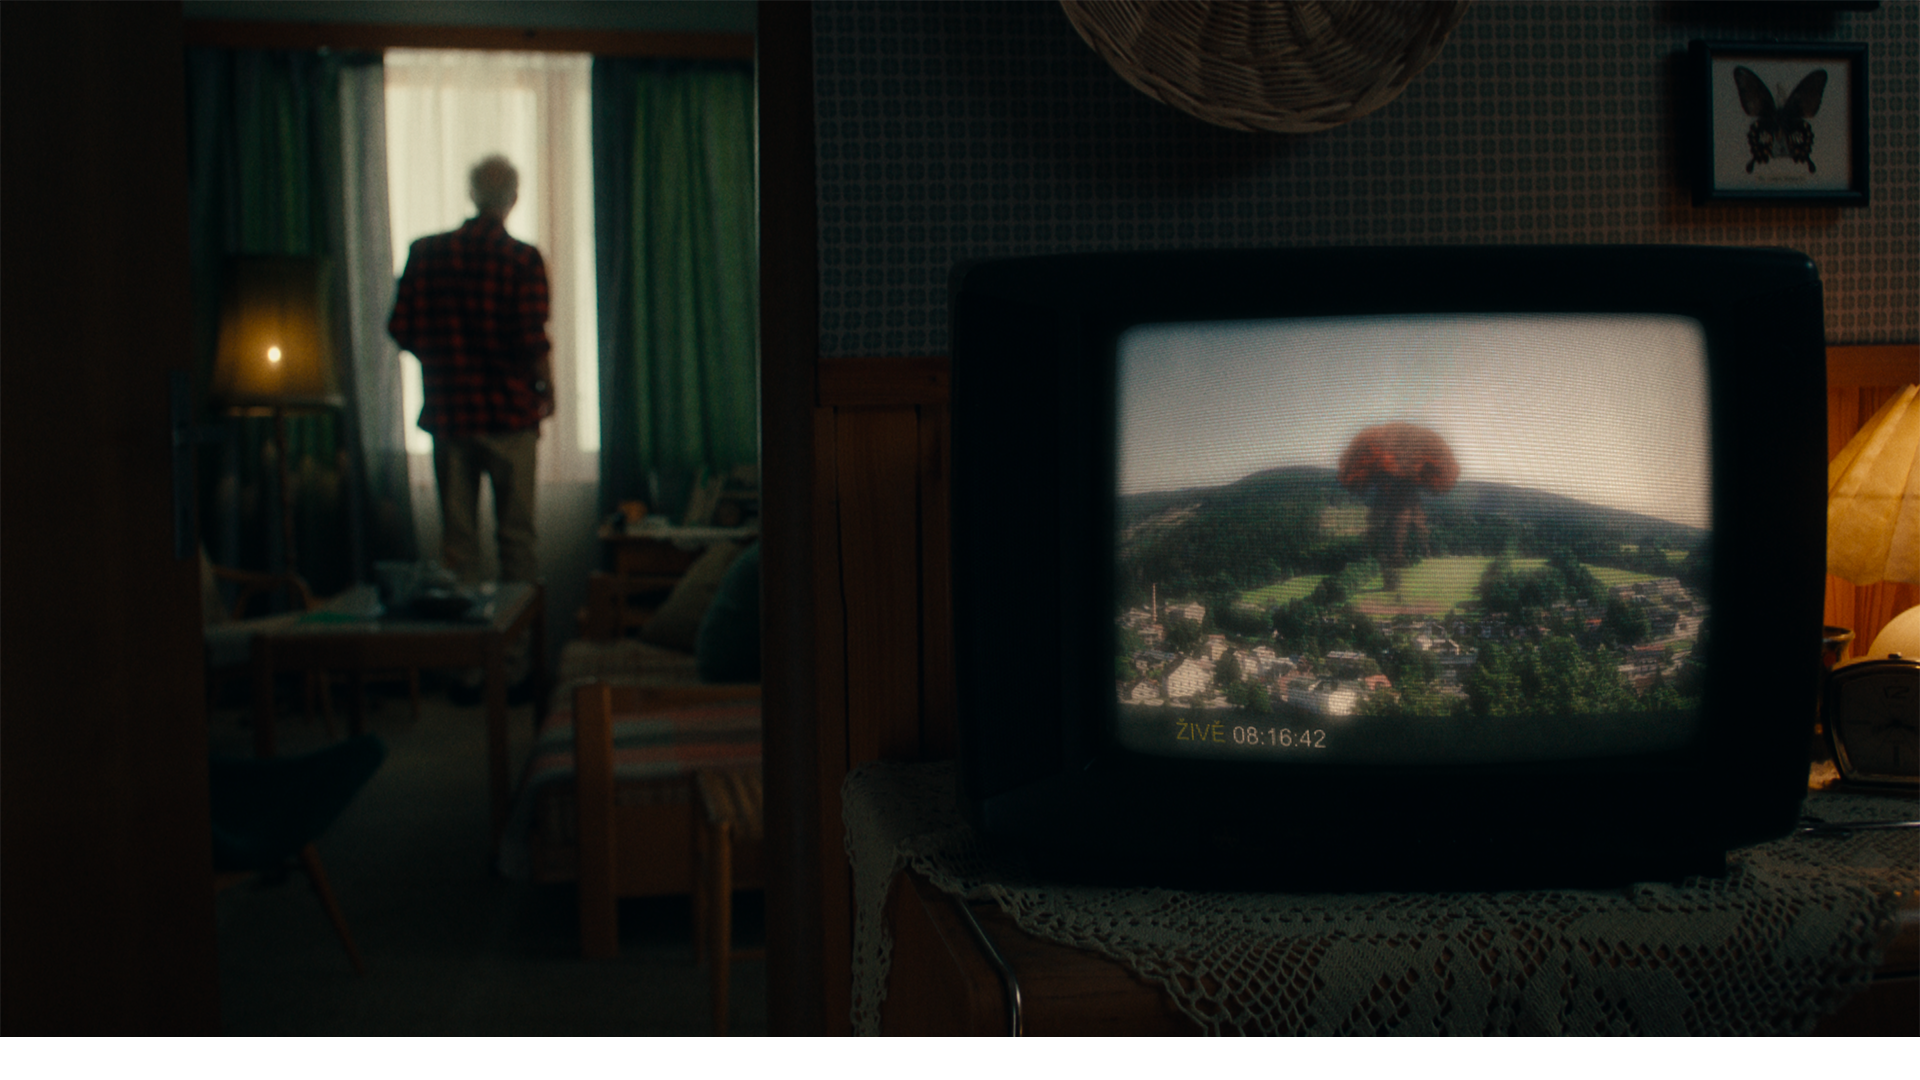
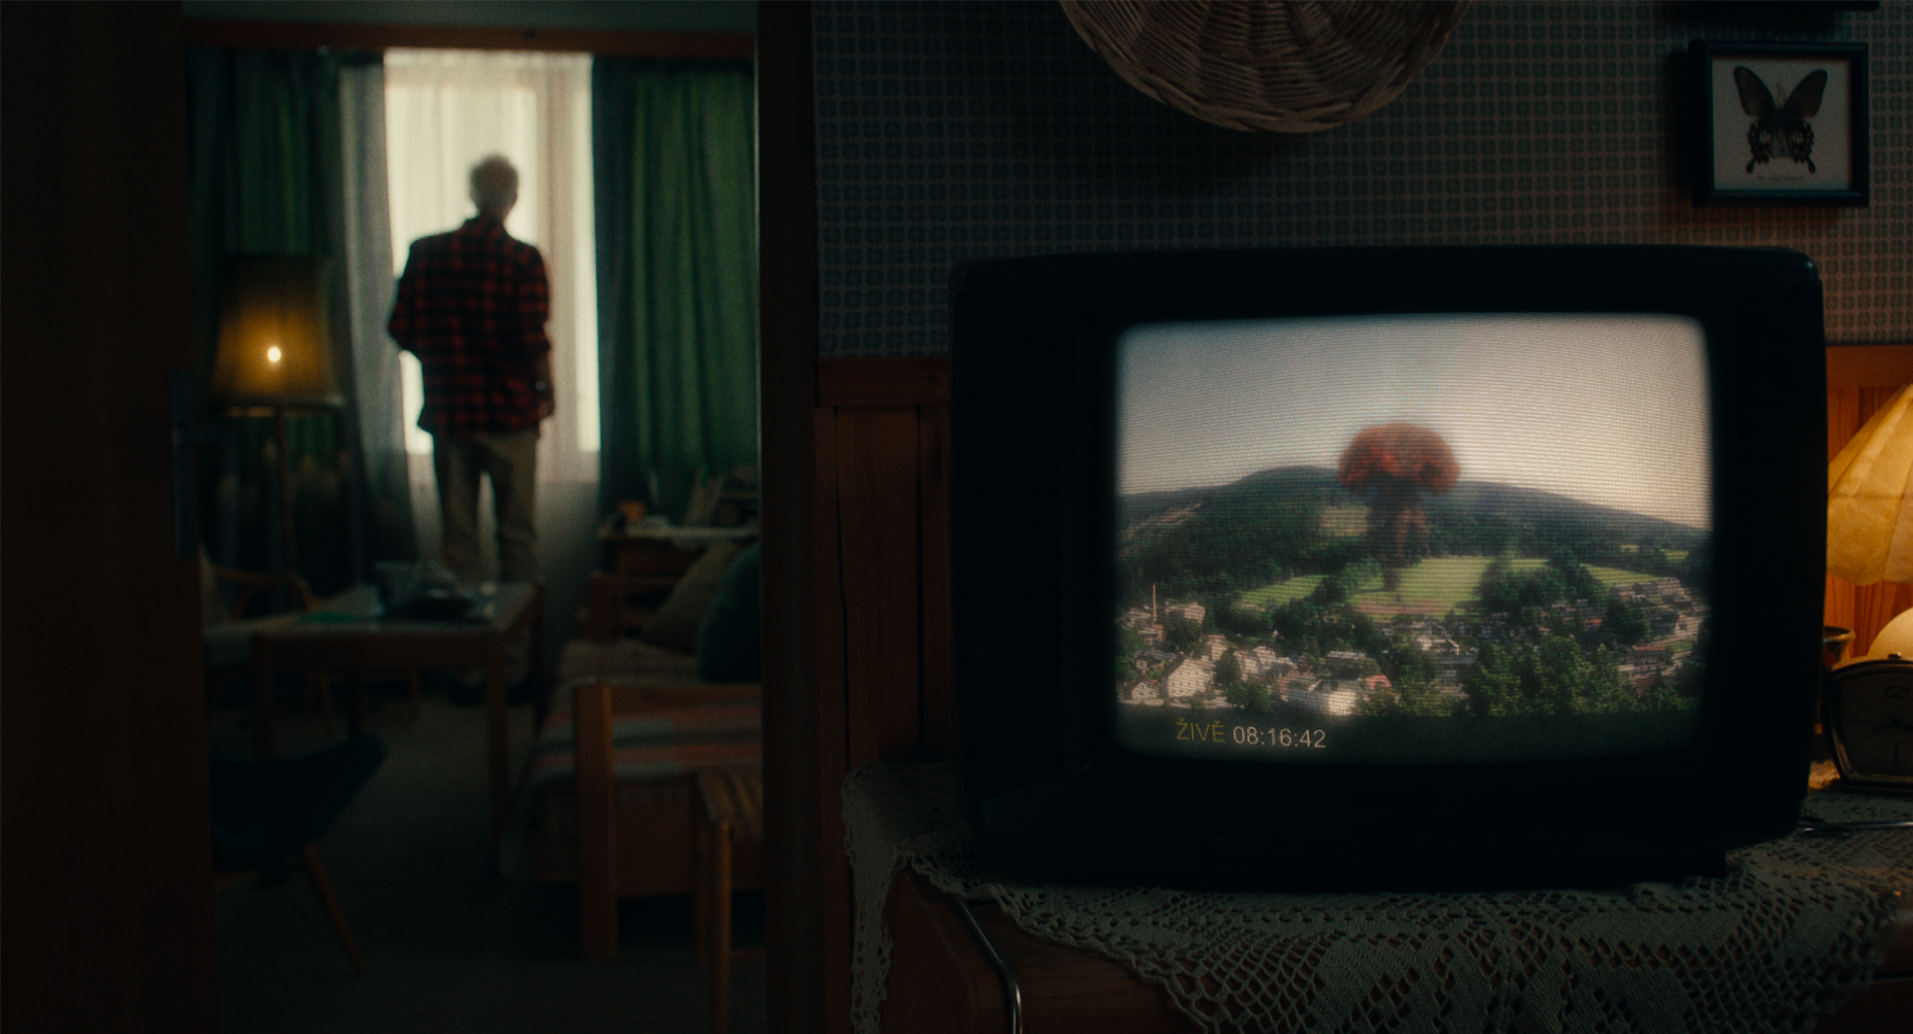
Background image height fixed

diff --git a/public/style.css b/public/style.css
@@ -17,6 +17,7 @@ body,
 html {
   margin: 0;
   padding: 0;
+  height: 100%;
 }
 
 .logo-demagog {
@@ -31,22 +32,30 @@ html {
   background-repeat: no-repeat;
   background-position: center;
   background-size: cover;
-  height: 100%;
 }
 
 .page-1 {
   display: block;
   background: url('./images/obrazek-telka-small.png'), lightgray 50% / cover no-repeat;
+  background-repeat: no-repeat;
+  background-position: center;
+  background-size: cover;
 }
 
 .page-2 {
   display: none;
   background-image: url('./images/obrazek-maska-small.png');
+  background-repeat: no-repeat;
+  background-position: center;
+  background-size: cover;
 }
 
 .page-3 {
   display: none;
   background-image: url('./images/obrazek-sundana-maska-small.png');
+  background-repeat: no-repeat;
+  background-position: center;
+  background-size: cover;
 }
 
 .header-orange {
